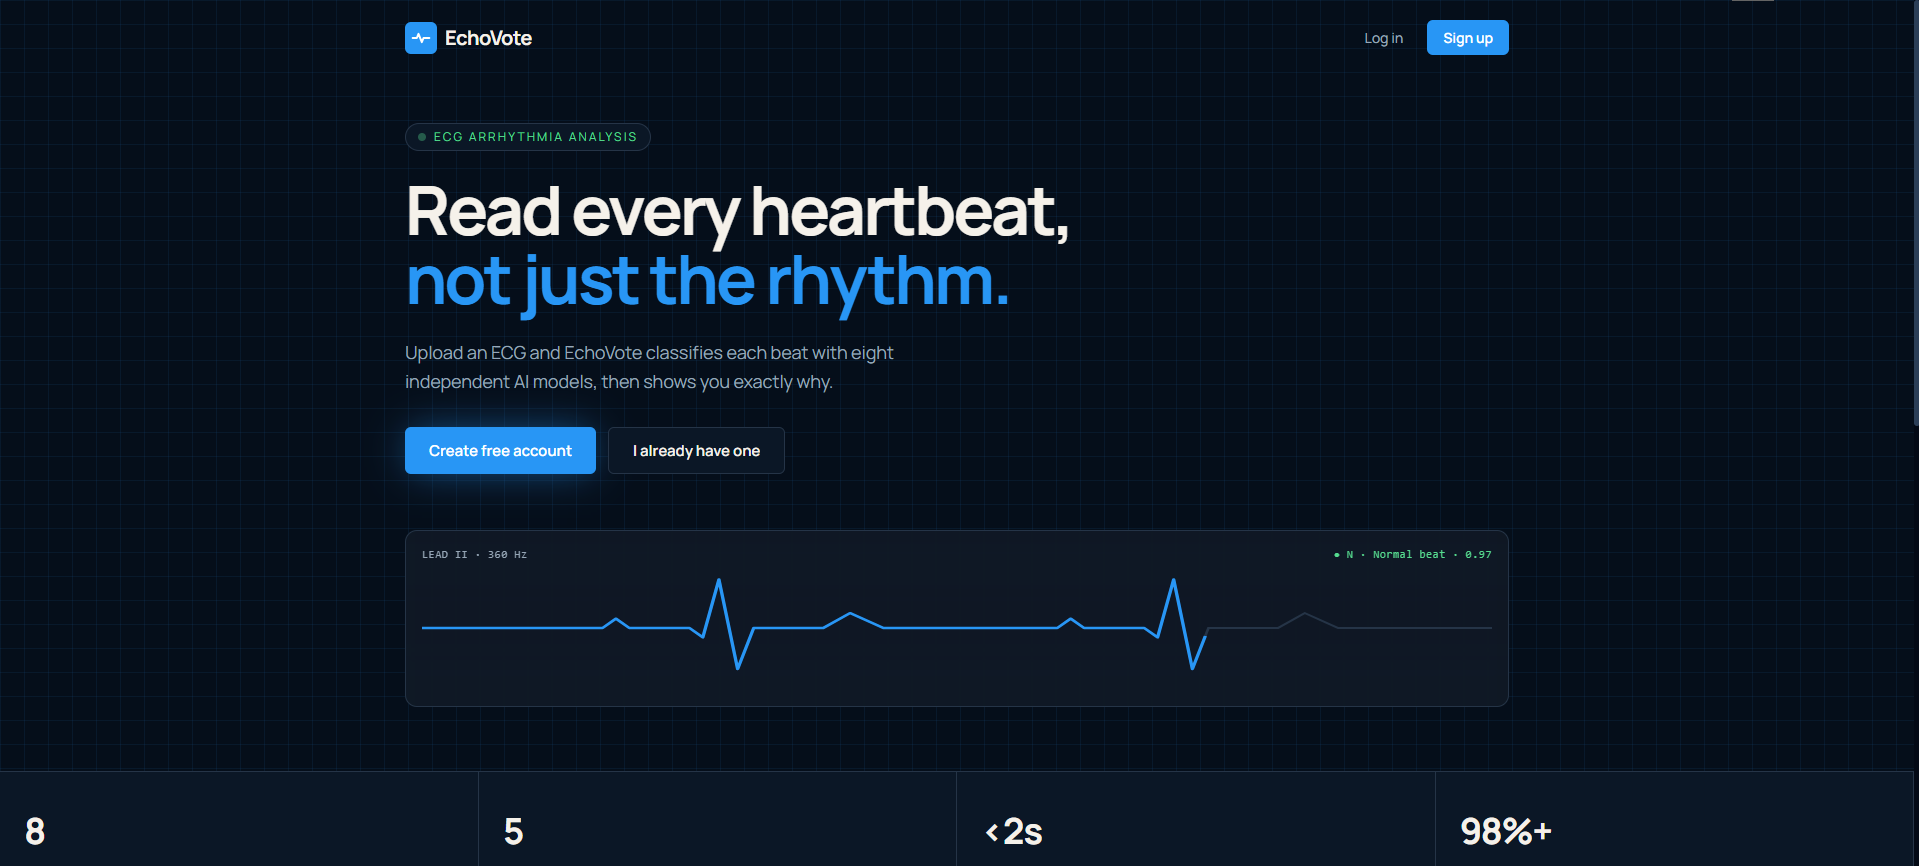
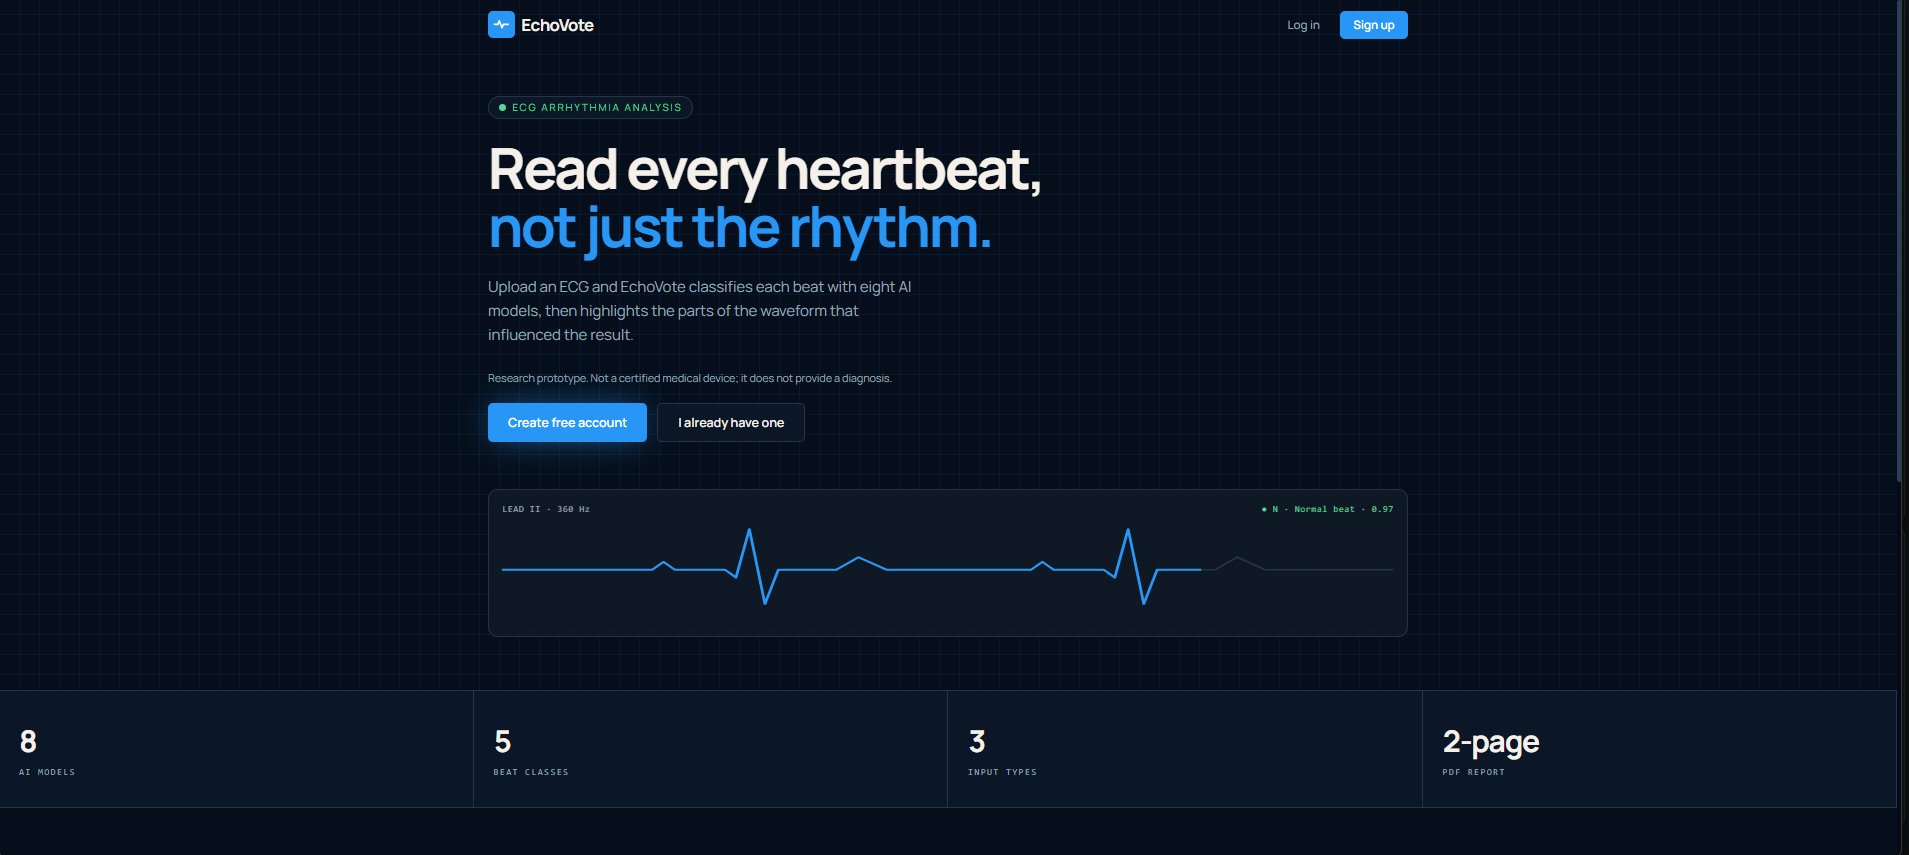
docs: update landing screenshot and walkthrough text
Replace the landing page screenshot with the corrected page, drop the duplicate
screenshot, and update the walkthrough to describe the current landing page.

diff --git a/docs/WALKTHROUGH.md b/docs/WALKTHROUGH.md
@@ -30,12 +30,14 @@ The public front page, with **Log in** and **Sign up**. Accounts are real: regis
 to the backend (`/auth/*`, `backend/auth.py`) and are stored in a SQLite database that persists in a Docker volume.
 After logging in the user lands on the Analyze page.
 
-The animated ECG strip is decorative. The four figures under it (8 AI models, 5 beat classes, 3 input types, a 2-page
-PDF report) describe features of the app and are static text in `frontend/src/LandingPage.js`. The screenshot above was
-taken before this wording was updated: it showed "&lt;2s per recording" and "98%+ test accuracy", which were removed
-because a single beat takes a few seconds, a photographed strip takes 1 to 2 minutes, and the 98% was a beat-level figure
-on MIT-BIH data (test and training beats from the same patients) that does not describe accuracy on new patients. A short
-"research prototype, not a medical device" line was added under the headline.
+Under the headline a short line states that this is a research prototype, not a certified medical device, and that it
+does not provide a diagnosis. The animated ECG strip (with its "N · Normal beat · 0.97" label) is a decorative
+illustration, not a live result. The four figures at the bottom (8 AI models, 5 beat classes, 3 input types, a 2-page
+PDF report) describe features of the app; they are static text in `frontend/src/LandingPage.js`, not live measurements.
+
+An earlier version of this page advertised "&lt;2s per recording" and "98%+ test accuracy". Both were removed: a single beat
+takes a few seconds, a photographed strip takes 1 to 2 minutes, and the 98% was a beat-level figure on MIT-BIH data (test
+and training beats from the same patients) that does not describe accuracy on new patients.
 
 ## 2. Analyze: choosing an input
 
